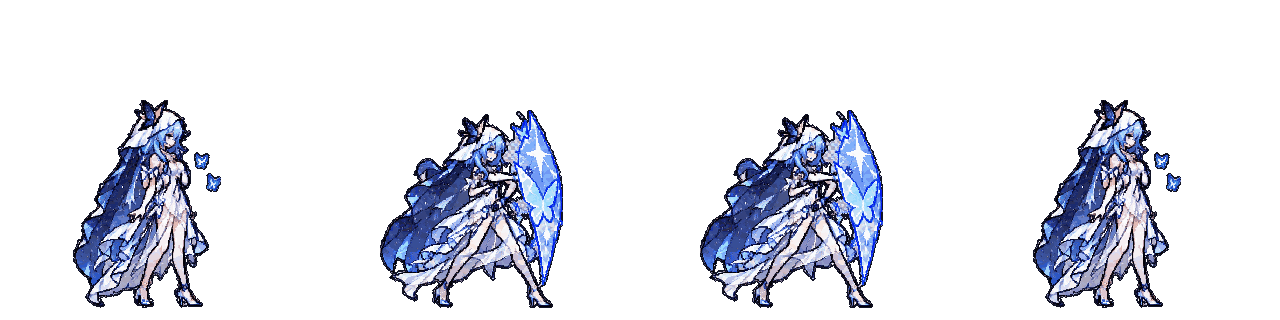
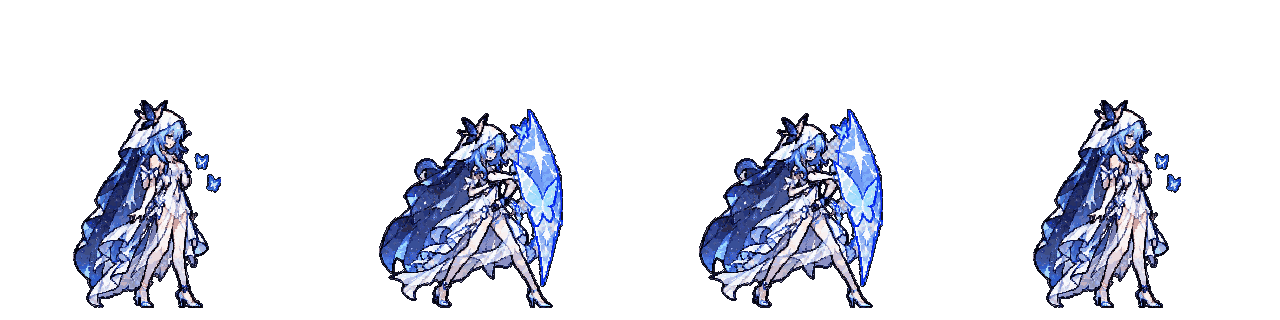
fix(art): 파수인 배경 잔여·공격 이펙트 둘레 체크무늬 제거
- 원본 몸 가장자리 밝은 회색 53.7%→0.9%, 흩어진 배경 잡티 제거
- 공격 칸 나비 이펙트 둘레에 갇힌 체크무늬: unchecker box: 옵션(범위 안에서 채도 낮고 밝은 픽셀을 투명 쪽에서 번져 지움)

diff --git a/docs/STATUS.md b/docs/STATUS.md
@@ -67,3 +67,4 @@ PixelLab 프롬프트를 웹 화면 스크린샷에 맞춰 수정: Create from T
 2026-11-24: 도트 깨짐·이펙트 잘림 원인 2개 수정. (1) `taper`가 다듬은 그림의 상자 가장자리 전체를 잘린 단면으로 보고 멀쩡한 칼날·베기를 깎았다(공명자 12명 전원, 53개 파일) → 실제로 잘린 변에만 적용. (2) sharp 0.33의 `png({colours:48|64})`가 비트 깊이만 정해 모든 공명자·카드·전투 배경이 16색으로 저장되고 있었다 → `lib/pixel.cjs`의 `limitColors`(median cut)로 줄이고 8비트 팔레트로 저장. 공명자 프레임 15→48색, 전투 배경·타이틀 16→64색, 단품 카드 6장 16→48색. 나머지 카드(카드 시트·예전 도구로 만든 것)는 16색 그대로이며, 시트를 다시 자를 때(`CARDS=1`) 고쳐진다. 칼베기·속성 임팩트(`assets/fx/`)는 프레임이 잘리지 않음을 확인.
 2026-11-24: 타이틀 배경 영상을 하루 주기 영상으로 교체. 박힌 로고 글자 「鳴潮」를 지우고 낮·노을·밤·새벽 4개 반복 영상으로 나눠, 지금 시각에 맞는 것을 튼다(`scripts/title-dayparts.cjs`, `render.js` `titlePart`, 자가 점검 `title_video`). 예전 영상·`title-video.swift`는 지움. 원본은 공식 로고가 있어 커밋하지 않는다.
 2026-11-24: 타이틀 영상 수정(사용자 요청): 로고 글자는 지우지 않고 둔다. 시간대별 짧은 왕복 영상 4개 대신, 하루 주기 전체를 640×360 도트로 다시 그리고(블록 최빈색, 1280×720에 2배 저장) 끝→처음을 1초 겹쳐 끊김 없이 반복하는 `assets/maps/title-cycle.mp4`(7초) 하나로. 지금 시간대 지점부터 재생(`TITLE_T`). 화면은 배경 그림과 같은 정수 배율 최근접 확대.
+2026-11-24: 파수인 배경 잔여 정리. 원본 몸 가장자리의 53.7%가 밝은 회색이었고, 공격 칸 나비 이펙트 둘레에 체크무늬 조각이 갇혀 있었다(바깥 번짐이 안 닿음). `unchecker.cjs strict box:1020,90,1230,330`로 가장자리 53.7%→0.9%, 배경 잡티와 나비 둘레 체크무늬 제거(흰 드레스·나비 몸통은 윤곽선으로 닫혀 남음). `box:` 옵션 추가.
